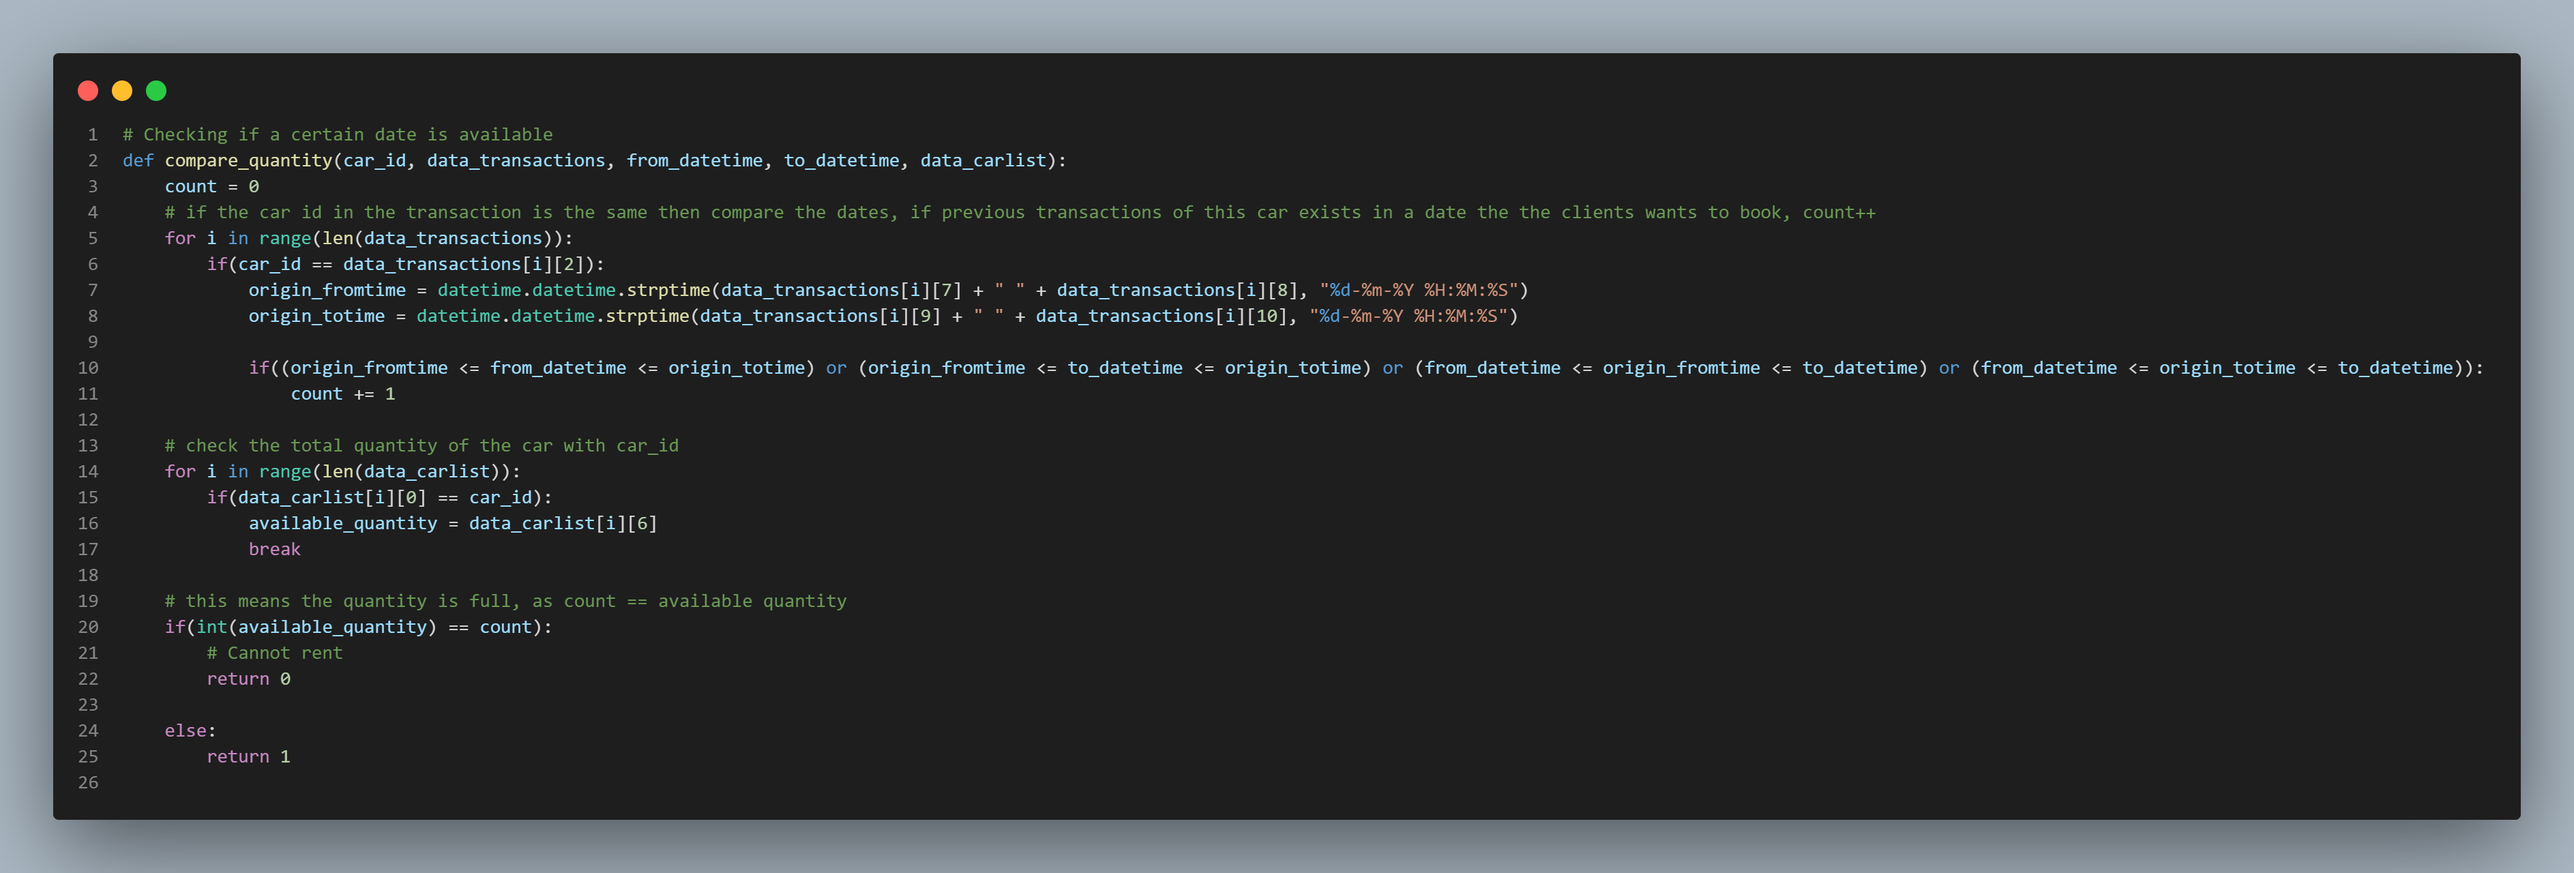
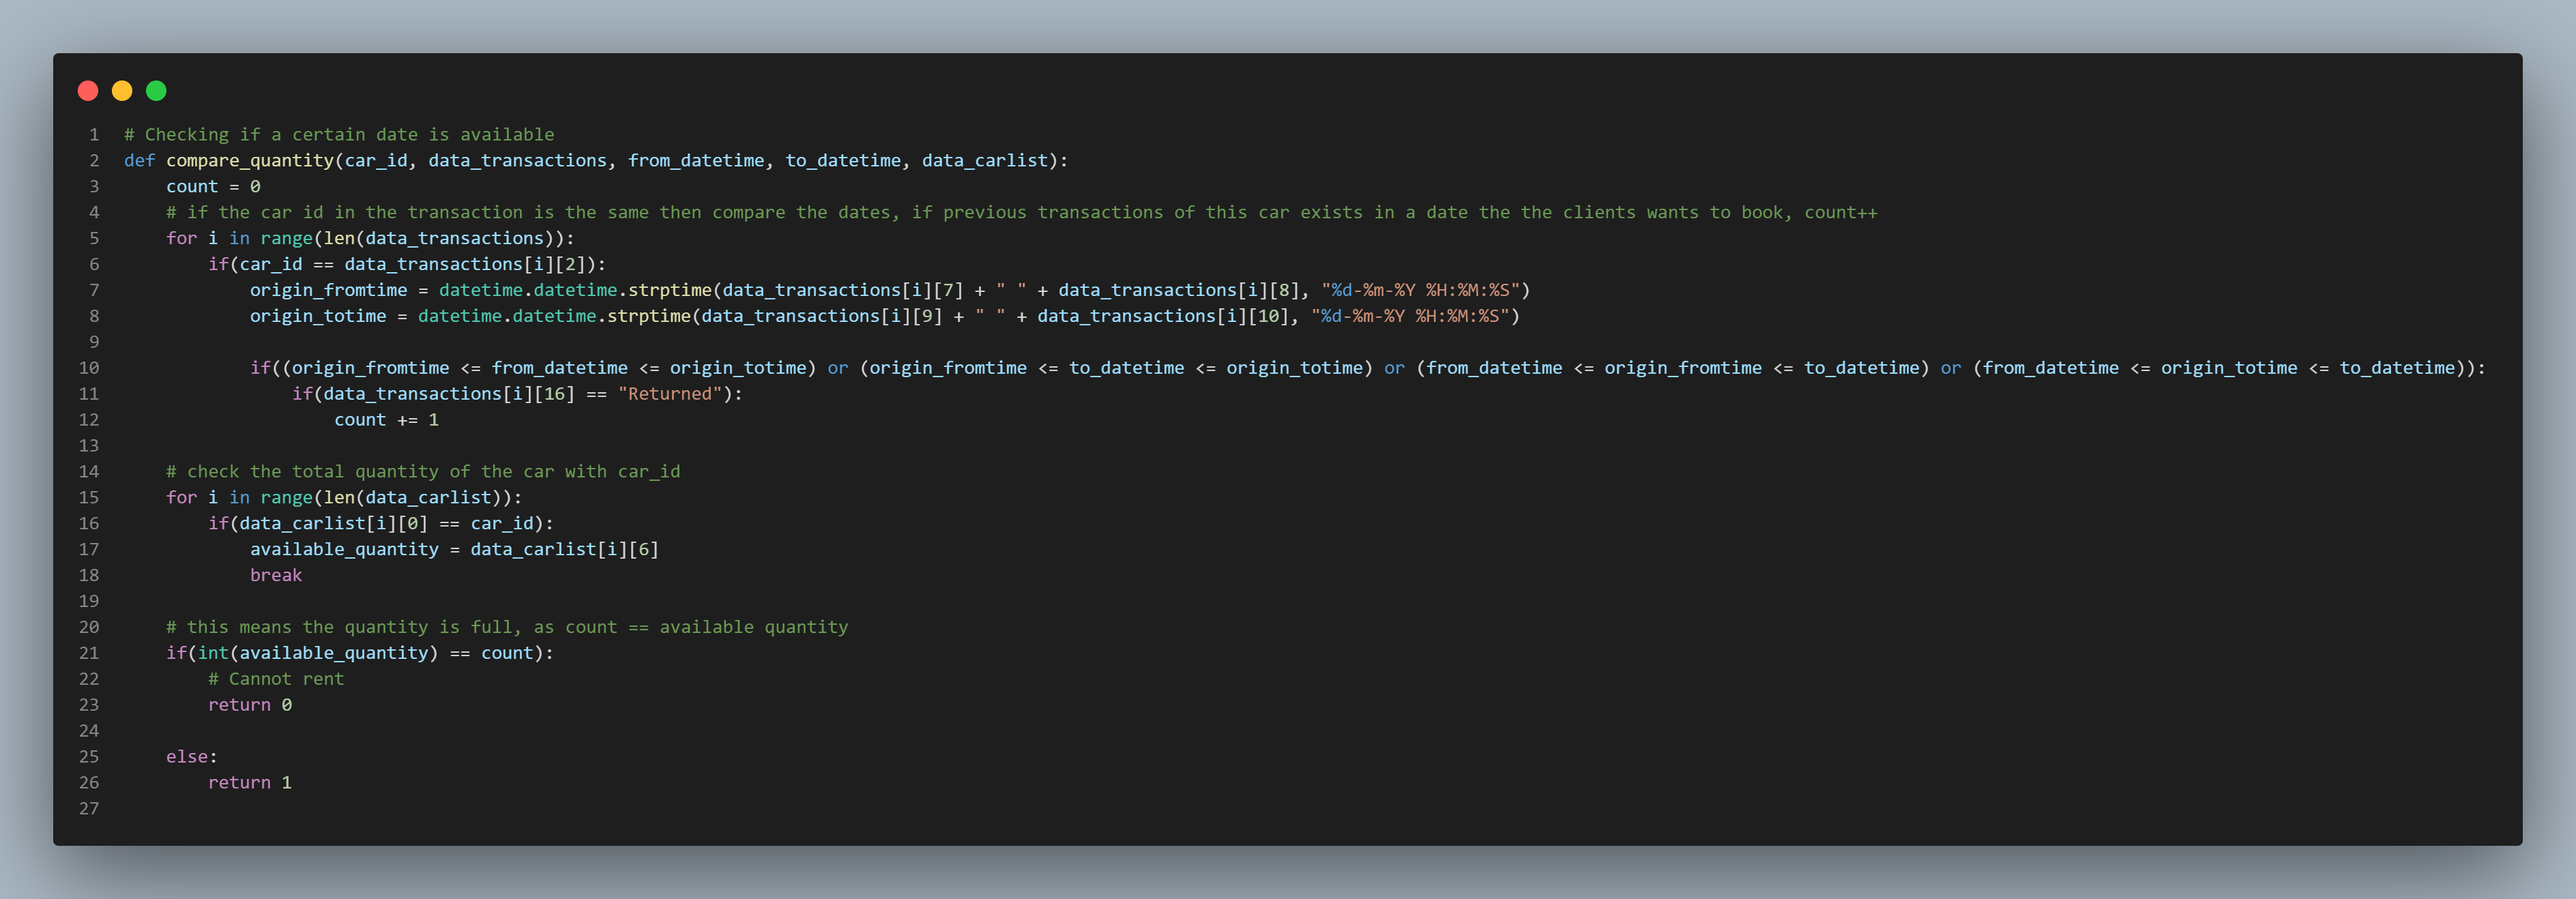
Minor fixes

diff --git a/default.py b/default.py
@@ -421,7 +421,7 @@ def print_sorttable(data, mode, sequence, space):
     elif(mode == 2):
         # mode 2: admin sort list of cars(include all columns)
         columns = 13
-        blanks = 180
+        blanks = 214
 
     elif(mode == 3):
         # mode 3: admin filter certain dates of transactions
@@ -636,24 +636,6 @@ def validation_totalquantity(data_carlist, car_data, mode=1):
             print("")
             continue
         if(temp == int(car_data[5])):
-            car_data = sub_total_quantity_menu2(temp, car_data)
-            break
-
-        elif(temp > int(car_data[5])):
-            car_data = sub_total_quantity_menu1(temp, car_data, 1)
-            print_title("This is the current record.")
-            for i in range(0, 13):
-                print(data_carlist[0][i] + ": " + str(car_data[i]))
-            break
-
-        elif(temp < int(car_data[5])):
-            car_data = sub_total_quantity_menu1(temp, car_data, 0)
-            print_title("This is the current record.")
-            for i in range(0, 13):
-                print(data_carlist[0][i] + ": " + str(car_data[i]))
-            break
-
-        else:
             print("Total Quantity is the same as before")
             print("Do you want to alter quantity for each section? ")
             menu = ["Yes", "Return"]
@@ -668,8 +650,21 @@ def validation_totalquantity(data_carlist, car_data, mode=1):
                 print_title("This is the current record.")
                 for i in range(0, 13):
                     print(data_carlist[0][i] + ": " + str(car_data[i]))
+                break
 
-            return car_data
+        elif(temp > int(car_data[5])):
+            car_data = sub_total_quantity_menu1(temp, car_data, 1)
+            print_title("This is the current record.")
+            for i in range(0, len(car_data)):
+                print(data_carlist[0][i] + ": " + str(car_data[i]))
+            break
+
+        elif(temp < int(car_data[5])):
+            car_data = sub_total_quantity_menu1(temp, car_data, 0)
+            print_title("This is the current record.")
+            for i in range(0, 13):
+                print(data_carlist[0][i] + ": " + str(car_data[i]))
+            break
 
     return car_data
 
@@ -905,7 +900,7 @@ def validation_cartypes():
 
 # Ensuring the temp return is capitalised in the first alphabet and small for the rest
 def validation_carnormal(target):
-
+    
     temp = input("Please enter " + str(target) + ": ")
 
     temp = temp[0].upper() + temp[1:len(temp)].lower()

diff --git a/clients.py b/clients.py
@@ -226,7 +226,7 @@ def sub_sort_menu(header, data, mode):
     return sequence
 
 
-def searchcar_menu(user_data, data_carlist, space_cars):
+def searchcar_menu(user_data, data_carlist, space_cars, mode = 4):
     while(1):
         menu = ["Car ID", "Car Types", "Car Brand", "Car Model", "Passenger Capacity", "Weight Load", "Return"]
         title = user_data[2] + ", you can search a car here"
@@ -266,7 +266,7 @@ def searchcar_menu(user_data, data_carlist, space_cars):
         if(choice == '7'):
             return
 
-        default.print_sorttable(data_carlist, 4, sequence, space_cars)
+        default.print_sorttable(data_carlist, mode, sequence, space_cars)
         print("")
 
 # search a keyword within header and return the sequence of the searched rows
@@ -693,7 +693,8 @@ def compare_quantity(car_id, data_transactions, from_datetime, to_datetime, data
             origin_totime = datetime.datetime.strptime(data_transactions[i][9] + " " + data_transactions[i][10], "%d-%m-%Y %H:%M:%S")
 
             if((origin_fromtime <= from_datetime <= origin_totime) or (origin_fromtime <= to_datetime <= origin_totime) or (from_datetime <= origin_fromtime <= to_datetime) or (from_datetime <= origin_totime <= to_datetime)):
-                count += 1
+                if(data_transactions[i][16] == "Returned"):
+                    count += 1
 
     # check the total quantity of the car with car_id
     for i in range(len(data_carlist)):

diff --git a/admin.py b/admin.py
@@ -161,7 +161,7 @@ def car_interface(user_data, data_carlist, login_index, space_cars):
             sort_cars(user_data, data_carlist, space_cars)
 
         if(choice == '2'):
-            clients.searchcar_menu(user_data, data_carlist, space_cars)
+            clients.searchcar_menu(user_data, data_carlist, space_cars, mode = 2)
 
         if(choice == '3'):
             carprofile_menu(data_carlist, space_cars)
@@ -288,7 +288,7 @@ def edit_carprofile(index, car_data, data_carlist, space_cars):
         return
 
     if(choice == '1'):
-        temp = default.validation_length(space_cars[1])
+        temp = default.validation_cartypes()
         car_data[1] = temp
 
     if(choice == '2'):
@@ -323,8 +323,8 @@ def edit_carprofile(index, car_data, data_carlist, space_cars):
         car_data[12] = temp
 
     data_carlist[index] = car_data
-    print(index)
-    print(car_data)
+    #print(index)
+    #print(car_data)
 
     # print(data_clients)
     with open("./data/cars_lists.txt",  mode='w') as cars_file:
